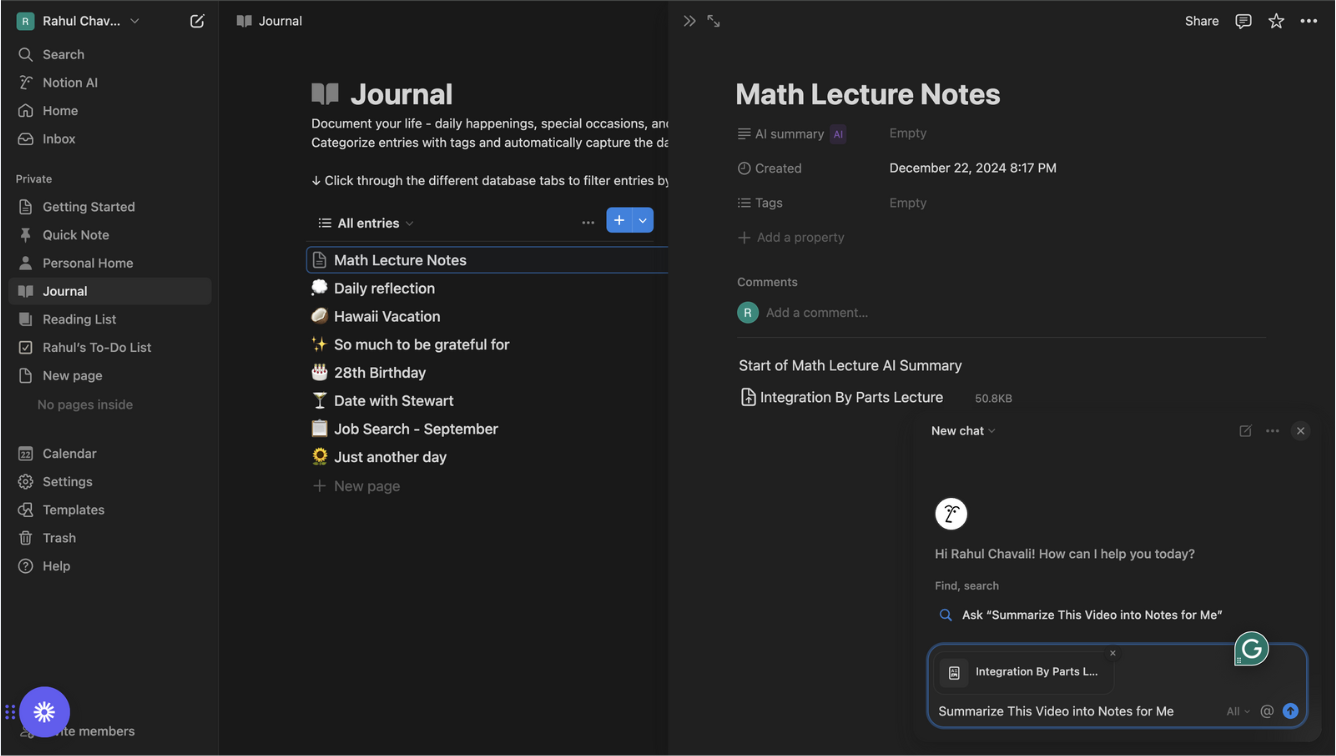
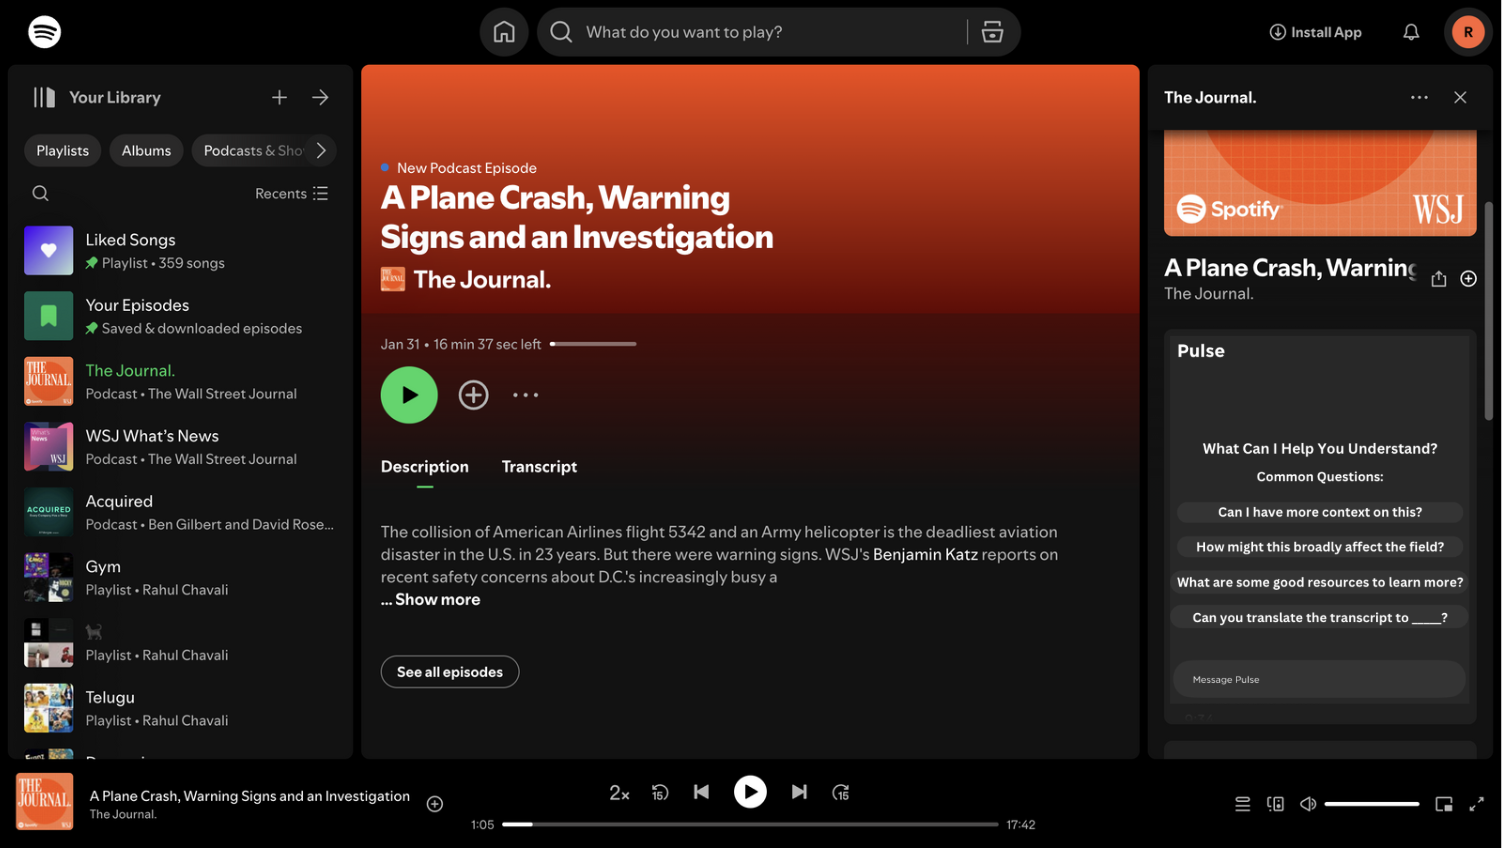
Spotify fixed

diff --git a/src/components/features.js b/src/components/features.js
@@ -1,6 +1,6 @@
 import React, { useState } from 'react';
 import './features.css';
-import feature2Image from "./feature2.png";
+//import feature2Image from "./feature2.png";
 import feature1Image from "./feature1.png";
 import feature3Image from "./feature3.png";
 import Modal from 'react-modal';
@@ -25,21 +25,21 @@ function Features() {
     <section id="features" className="features">
       <h2>Key Features</h2>
       <div className="features-grid">
-        <div className="feature" onClick={() => openModal(feature1Image)}>
-          <h3>Feature 1</h3>
-          <p>Enable users to upload videos into Notion and allow them to ask Notion AI for video summaries.</p>
+        <div className="feature1" onClick={() => openModal(feature1Image)}>
+          <h3>Screen 1</h3>
+          <p>The website version allows users to see their instance of Pulse on the play screen. The screen shows a chatbot alongside common questions users might ask.</p>
           <img src={feature1Image} alt="Feature 1" className="feature-image" />
           <p className="click-to-zoom">(Click to Zoom)</p>
         </div>
-        <div className="feature" onClick={() => openModal(feature2Image)}>
+        {/*<div className="feature" onClick={() => openModal(feature2Image)}>
           <h3>Feature 2</h3>
           <p>Give users the ability to generate summaries by detail level and save an editable summary into their note.</p>
           <img src={feature2Image} alt="Feature 2" className="feature-image" />
           <p className="click-to-zoom">(Click to Zoom)</p>
-        </div>
-        <div className="feature" onClick={() => openModal(feature3Image)}>
-          <h3>Feature 3</h3>
-          <p>Allow users to input videos into Notion AI for summaries, quicker information, and user convenience</p>
+    </div> */}
+        <div className="feature2" onClick={() => openModal(feature3Image)}>
+          <h3>Screen 2</h3>
+          <p>The phone version allows users to see their instance of Pulse on the play screen conveniently placed under the podcast play button.</p>
           <img src = {feature3Image} alt="Feature 3" className="feature-image" />
           <p className="click-to-zoom">(Click to Zoom)</p>
         </div>

diff --git a/src/components/build.js b/src/components/build.js
@@ -9,7 +9,7 @@ function Build() {
       <div className='box'>
       <div className="build-item">
       <h2>My Build</h2>
-          <p> I build an AI application that takes in a user's youtube video, or a video file, reads the transcript, and then gives them saved notes based on detail level. The notes can be exported as .docx or .pdf and edited on the site. This was originally made as a study tool, but I quickly realized it would be better used as a resource for all speech, video, or media of any sort to allow people to get get convenient summaries in any situation<br /><br /> <b>In fact, the summary shown in the features was generated by this product. </b> <br /><br />Technologies Used: Streamlit, Python3, LLaMa3, MongoDB, YoutubeTranscriptReader, AssemblyAI.<br /><br /> The GitHub repository as well as installation instructions to test this yourself are linked: 
+          <p> I build an AI application that takes in a user's youtube video, or a video file, reads the transcript, and then gives them saved notes based on detail level. The notes can be exported as .docx or .pdf and edited on the site. This was originally made as a study tool, but I quickly realized it would be better used as a resource for all speech, video, or media of any sort to allow people to get get convenient summaries in any situation<br /><br /> <b> Rationale: </b> Once I built this product, I realized the next step to help the understanding process was to build a RAG chatbot that took in the details of the video and allowed users to ask the questions. That idea led to this product idea for Spotify. <br /><br /> Technologies Used: Streamlit, Python3, LLaMa3, MongoDB, YoutubeTranscriptReader, AssemblyAI.<br /><br /> The GitHub repository as well as installation instructions to test this yourself are linked: 
           <a href="https://github.com/rschavali02/Chalkboard.ai_" target="_blank" rel="noopener noreferrer">
           GitHub
           </a>

diff --git a/src/components/features.css b/src/components/features.css
@@ -17,26 +17,58 @@
   flex-wrap: wrap;
   justify-content: center;
   gap: 20px;
+  align-items: stretch; /* Ensures consistent height */
 }
 
-.feature {
-  flex: 1 1 300px;
-  max-width: 300px;
+.feature1 {
+  flex: 1 1 auto; /* Adjust size dynamically */
+  max-width: 600px; /* Increased max width for better scaling */
+  min-width: 300px;
   padding: 20px;
-  background-color: #7f7f7f;
+  background-color: #1ed760;
   border-radius: 20px;
   box-shadow: 0 2px 8px rgba(0, 0, 0, 0.1);
   text-align: center;
-  cursor: pointer; /* Make it clear the feature is clickable */
+  display: flex;
+  flex-direction: column;
+  align-items: center;
 }
 
-.feature h3 {
+.feature2 {
+  flex: 1 1 auto; /* Adjust size dynamically */
+  max-width: 250px; /* Increased max width for better scaling */
+  min-width: 200px;
+  padding: 20px;
+  background-color: #1ed760;
+  border-radius: 20px;
+  box-shadow: 0 2px 8px rgba(0, 0, 0, 0.1);
+  text-align: center;
+  display: flex;
+  flex-direction: column;
+  align-items: center;
+}
+
+
+.feature1 h3 {
   font-size: 1.5em;
   color: #f7f4f3;
   margin-bottom: 10px;
 }
 
-.feature p {
+.feature2 h3 {
+  font-size: 1.5em;
+  color: #f7f4f3;
+  margin-bottom: 10px;
+}
+
+
+.feature1 p {
+  font-size: 1em;
+  color: #f7f4f3;
+  margin-bottom: 15px;
+}
+
+.feature2 p {
   font-size: 1em;
   color: #f7f4f3;
   margin-bottom: 15px;
@@ -46,6 +78,7 @@
   width: 100%;
   height: auto;
   border-radius: 10px;
+  aspect-ratio: auto; /* Maintains the image's aspect ratio */
   transition: transform 0.3s ease-in-out;
 }
 
@@ -57,6 +90,13 @@
   font-size: 0.9em;
   color: #888888;
   margin-top: 5px;
+}
+
+/* Responsive adjustments */
+@media (max-width: 768px) {
+  .feature:nth-child(3) .feature-image {
+    max-width: 70%; /* Further reduce size on smaller screens */
+  }
 }
 
 /* Modal Styles */

diff --git a/src/components/hero.js b/src/components/hero.js
@@ -7,13 +7,13 @@ function Hero() {
       <div className="hero-content">
         <div className='white-box'>
         <h1>
-          Introducing Notes
+          Introducing Pulse
         </h1>
-        <p>Notes is the next step for Notion. Seamlessly integrated with AI technology, it's designed to help you learn faster and organize better.</p>
+        <p>Keep your finger on the Pulse with Spotify's new product seamlessly integrated with AI technology. It's designed to help keep your discover podcasts and expand your understanding.</p>
         <div className="text-above-button"> 
           <p>Ready to dive in? Click the button to see the full Product Spec!</p>
         </div>
-        <a href="https://docs.google.com/document/d/177-i8JSEZmXIf8nyk3pnxgjUD5s69dmA_HXNChosXyw/edit?usp=sharing" target="_blank" rel="noopener noreferrer">
+        <a href="https://docs.google.com/document/d/1TSsMgs1RsDLpkmrmOZGOeKhEtL3SAdCSobYvdVd6m5w/edit?tab=t.0" target="_blank" rel="noopener noreferrer">
           <button className="cta-button">Click to View</button>
         </a>
         </div>

diff --git a/src/components/hero.css b/src/components/hero.css
@@ -4,7 +4,7 @@
   flex-direction: column;
   align-items: center;
   padding: 10px 20px;
-  background-color: #191919;
+  background-color: #191414;
   text-align: center;
   overflow: hidden; 
 }
@@ -15,7 +15,7 @@
 
 .hero-content h1 {
   font-size: 3em;
-  color: #1a1524;
+  color: #f7f4f3;
   margin-bottom: 20px;
   display: flex;
   align-items: center;
@@ -33,12 +33,12 @@
 
 .hero-content p {
   font-size: 1.25em;
-  color: #1a1524;
+  color: #f7f4f3;
   margin-bottom: 30px;
 }
 
 .white-box {
-  background-color: #f7f4f3; /* Light background color */
+  background-color: #1ed760; /* Light background color */
   padding: 75px 250px; /* Adjusted padding */
   border-radius: 30px;
   text-align: center;
@@ -47,8 +47,8 @@
 
 .cta-button {
   padding: 15px 30px;
-  background-color: #191919;
-  color: white;
+  background-color: #f7f4f3;
+  color:#191414;
   border: none;
   padding: 12px 20px;
   border-radius: 20px;
@@ -57,8 +57,8 @@
 }
 
 .cta-button:hover {
-  background-color: #f7f4f3;
-  color: #191919
+  background-color: #191414;
+  color: #f7f4f3
 }
 
 .hero-image img {

diff --git a/src/components/navbar.css b/src/components/navbar.css
@@ -4,8 +4,8 @@
   justify-content: space-between;
   align-items: center;
   padding: 10px 20px;
-  background-color: #f7f4f3;
-  border-radius: 30px;
+  background-color: #191414;
+  //border-radius: 30px; 
   box-shadow: 0 2px 4px rgba(0, 0, 0, 0.1);
   position: sticky;
   top: 0;
@@ -15,7 +15,7 @@
 .logo {
   font-size: 1.5em;
   font-weight: bold;
-  color: #212121;
+  color: #f7f4f3;
 }
 
 .presentation-logo-container {
@@ -45,7 +45,7 @@
 
 .nav-links a {
   text-decoration: none;
-  color: #333333;
+  color: #f7f4f3;
   font-weight: 500;
 }
 

diff --git a/src/components/navbar.js b/src/components/navbar.js
@@ -11,7 +11,7 @@ function Navbar() {
 
   return (
     <nav className="navbar">
-      <div className="logo">Notion Notes</div>
+      <div className="logo">Podcasts</div>
       <div className="presentation-logo-container">
         <img src={presentationImage} alt="Presentation Logo" className="presentation-logo" />
       </div>
